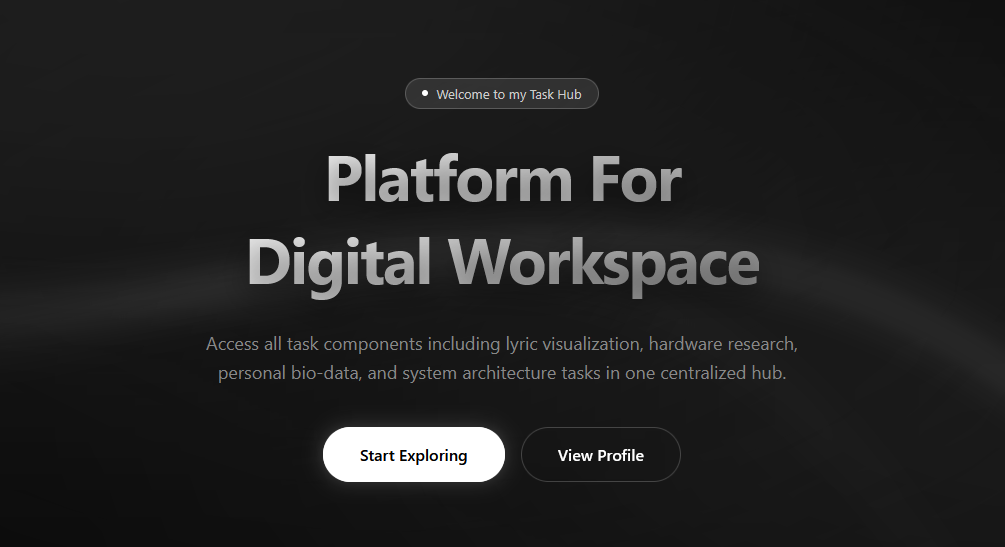
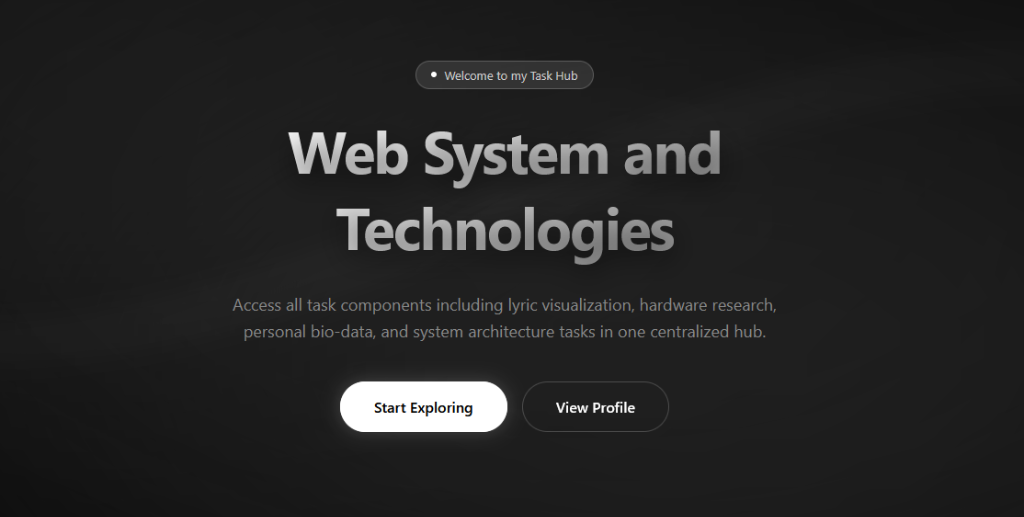
chore: sync og-image to hero section

Changed region(s): [[0.1851, 0.4023, 0.802, 0.8975], [0.2776, 0.2476, 0.7095, 0.3714], [0.401, 0.0928, 0.5861, 0.1857]]

diff --git a/index.html b/index.html
@@ -235,7 +235,7 @@
         <!-- Added explicit padding-bottom and increased line-height -->
         <h1
             style="font-size: 64px; margin: 0 0 10px 0; font-weight: 700; letter-spacing: -2px; background: linear-gradient(135deg, #ffffff 0%, #888888 100%); -webkit-background-clip: text; -webkit-text-fill-color: transparent; text-shadow: 0 10px 30px rgba(0,0,0,0.5); max-width: 900px; line-height: 1.3; padding-bottom: 20px;">
-            Platform For <br> Digital Workspace
+            Web System and <br> Technologies
         </h1>
 
         <!-- Subtext -->
